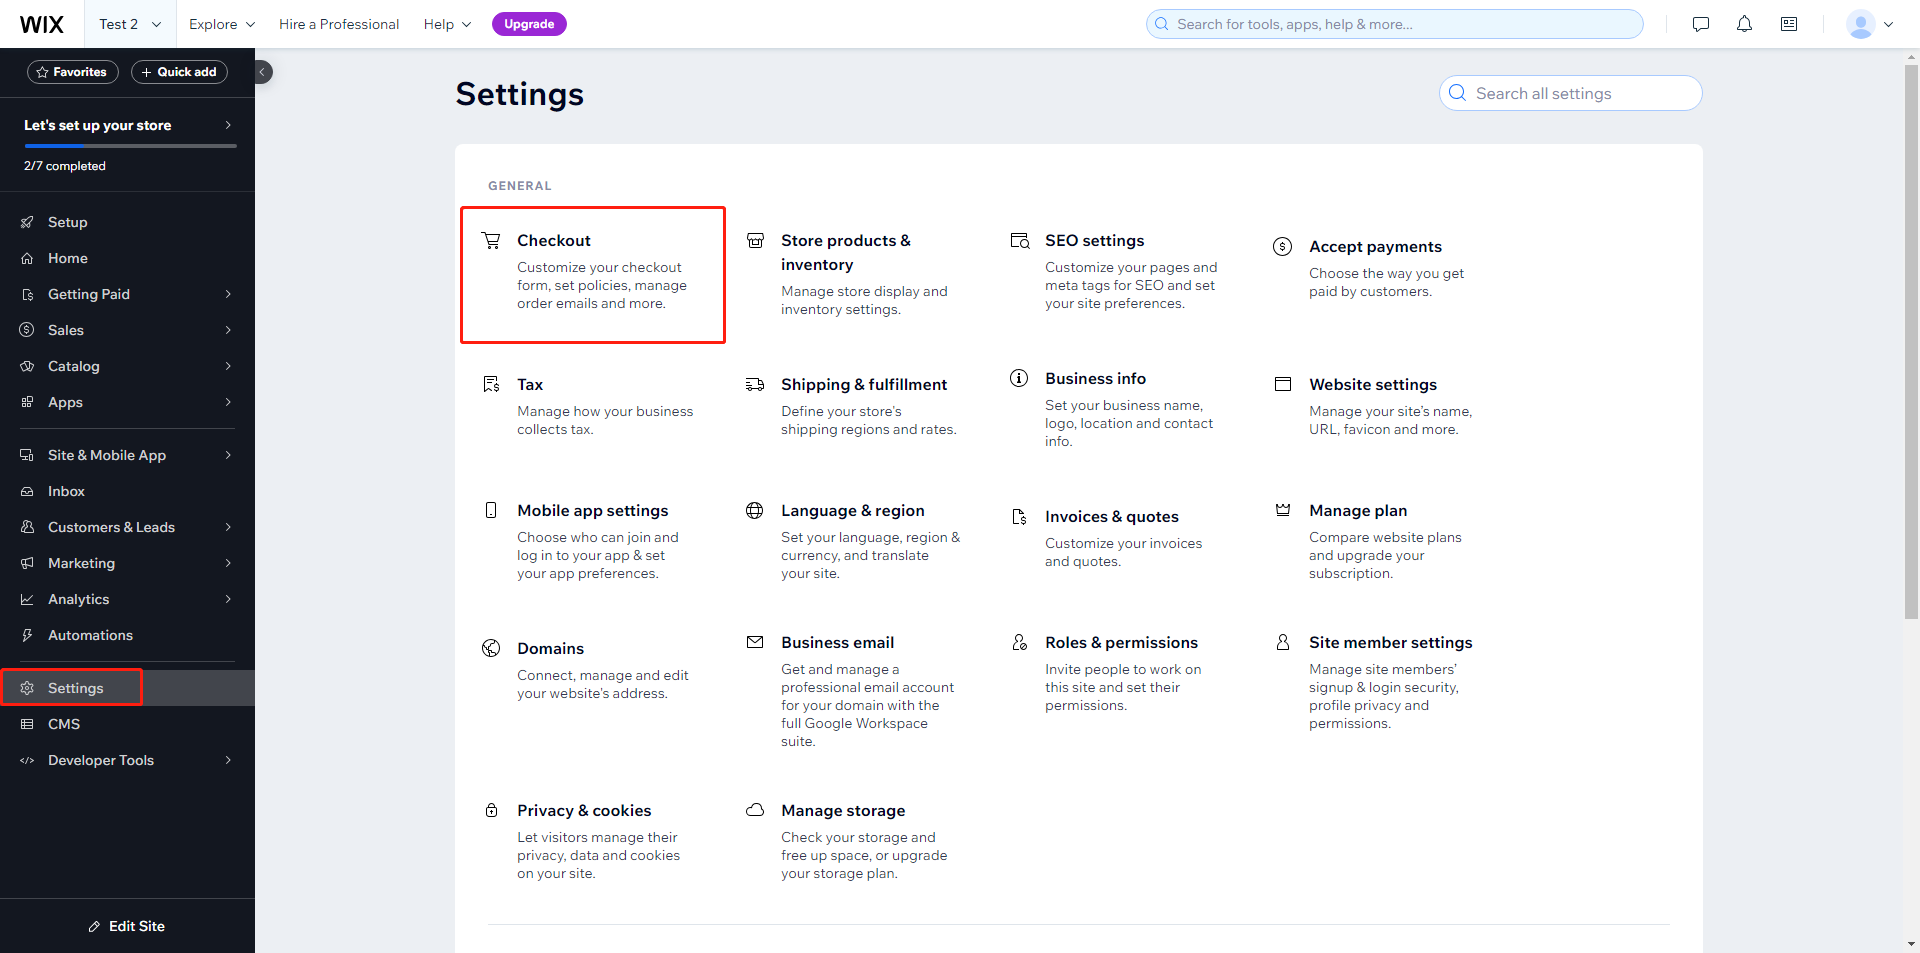
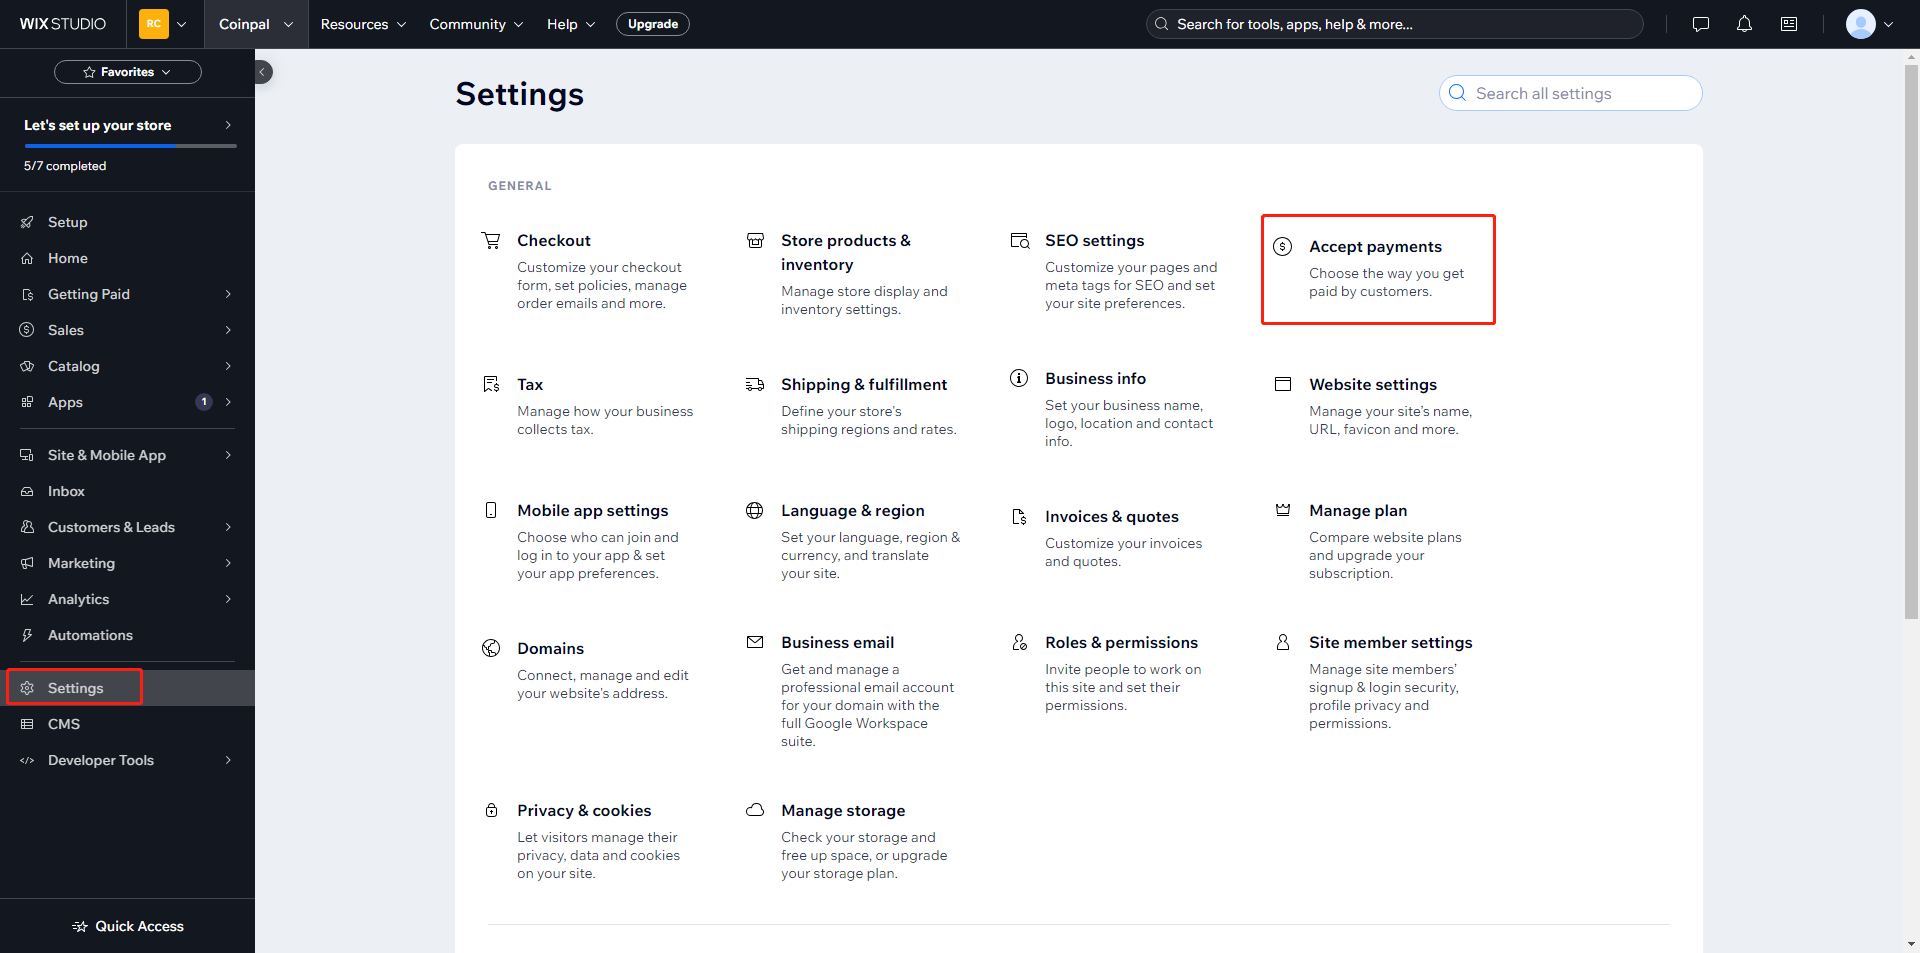
update

diff --git a/CoinpalPayment/CoinpalPayment-config.js b/CoinpalPayment/CoinpalPayment-config.js
@@ -7,16 +7,16 @@ export function getConfig() {
         title: 'Coinpal Payment',
         paymentMethods: [{
             hostedPage: {
-                title: 'Pay With Coinpal',
+                title: 'Pay Crypto with Coinpal',
                 billingAddressMandatoryFields: [],
                 logos: {
                     white: {
-                        svg: 'https://card.coinpal.io/assets/logo-a64c3844.svg',
-                        png: 'https://docs.coinpal.io/static/images/coinpal-logo.png'
+                        svg: 'https://www.coinpal.io/images/plug_coinpal.png',
+                        png: 'https://www.coinpal.io/images/plug_coinpal.png'
                     },
                     colored: {
-                        svg: 'https://card.coinpal.io/assets/logo-a64c3844.svg',
-                        png: 'https://docs.coinpal.io/static/images/coinpal-logo.png'
+                        svg: 'https://www.coinpal.io/images/plug_coinpal.png',
+                        png: 'https://www.coinpal.io/images/plug_coinpal.png'
                     }
                 }
             }

diff --git a/README.md b/README.md
@@ -51,15 +51,13 @@
 
 8. Configure Coinpal Wix Gateway
    
-   Go to the Wix Admin, click Settings -> Checkout -> Go To Accept Payments.
+   Go to the Wix Admin, click Settings -> Accept payments.
    
    Copy and Paste all of the Settings you generated in your Coinpal Dashboard on Step #1.
    
    Click Connect Button.
    
    ![](./img/checkout1.png)
-   
-   ![](./img/checkout2.png)
    
    ![](./img/checkout3.png)
    
